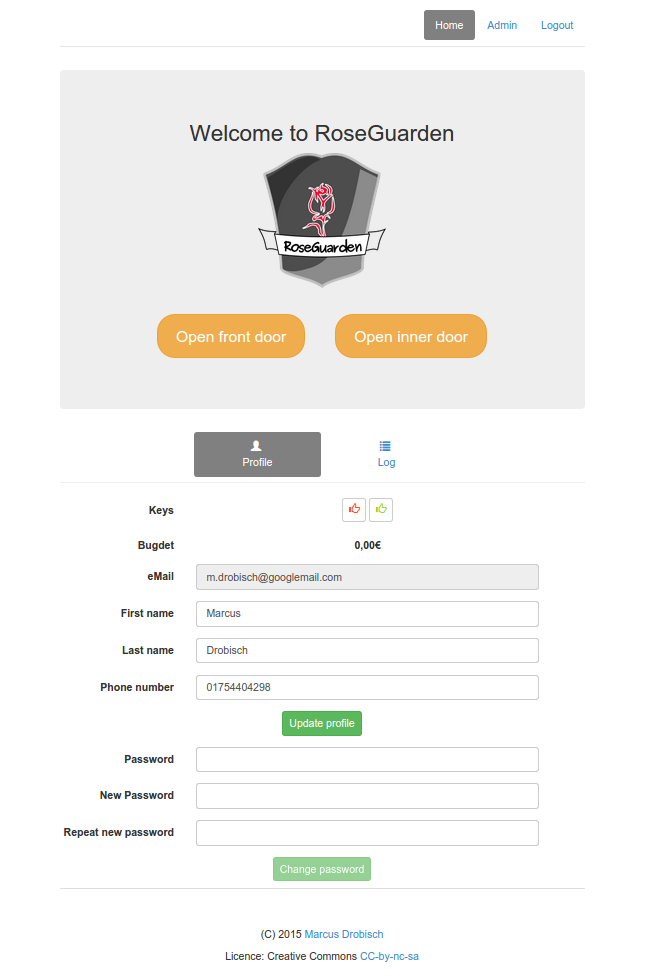
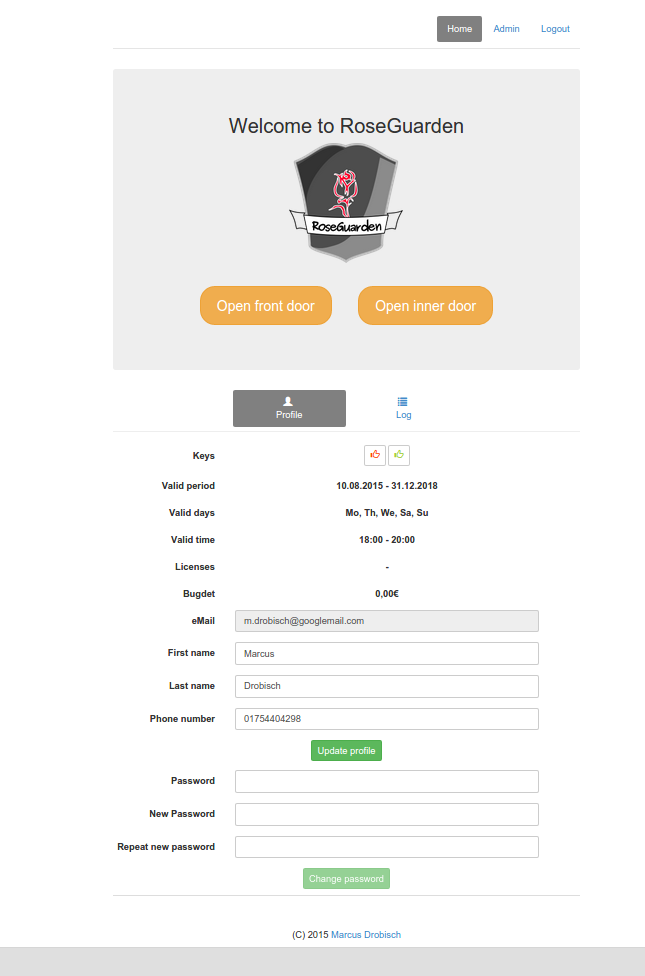
feat(userspace): add user-log and validation-dates

diff --git a/client/js/controllers/UserLogCtrl.js b/client/js/controllers/UserLogCtrl.js
@@ -1,0 +1,59 @@
+RoseGuardenApp.controller('UserLogCtrl', function ($scope, $location, $q, AuthService, User) {
+
+
+    var dates = [new Date("25 Dec, 1995 23:15:00"),new Date("1 Jan, 2005 13:15:00")];
+    var names = ['Front door', 'ProtosV2'];
+    var types = ['Opening door','Unlock device'];
+    var usernames = ['Marcus Drobisch', 'Max Mustermann'];
+    var usermails = ['m.drobisch@googlemail.com', 'Max.Mustermann@googlemail.com'];
+    var authentificationTypes = [0, 1,0, 0];
+
+    var id = 1;
+
+    $scope.rowCollection = [];
+    $scope.displayedCollection = [];
+
+    function generateRandomItem(id) {
+
+        var date = dates[Math.floor(Math.random() * 2)];
+        var name = names[Math.floor(Math.random() * 2)];
+        var type = types[Math.floor(Math.random() * 2)];
+        var username = usernames[Math.floor(Math.random() * 2)];
+        var usermail = usermails[Math.floor(Math.random() * 2)];
+        var authentificationType = authentificationTypes[Math.floor(Math.random() * 2)];
+        return {
+            id: id,
+            date: date,
+            name: name,
+            type: type,
+            authentificationType: authentificationType,
+            username: username,
+            usermail: usermail
+        };
+    }
+
+    function loadItemsDummy() {
+        for (id; id < 19; id++) {
+            $scope.rowCollection.push(generateRandomItem(id));
+        }
+        //copy the references (you could clone ie angular.copy but then have to go through a dirty checking for the matches)
+        $scope.displayedCollection = [].concat($scope.rowCollection);
+    }
+
+
+    loadItemsDummy();
+
+    //add to the real data holder
+    $scope.addRandomItem = function addRandomItem() {
+        $scope.rowCollection.push(generateRandomItem(id));
+        id++;
+    };
+
+    //remove to the real data holder
+    $scope.removeItem = function removeItem(row) {
+        var index = $scope.rowCollection.indexOf(row);
+        if (index !== -1) {
+            $scope.rowCollection.splice(index, 1);
+        }
+    }
+})

diff --git a/client/partials/user/log.html b/client/partials/user/log.html
@@ -1,1 +1,44 @@
-Log for user coming soon.
+<div ng-controller="UserLogCtrl">
+
+    <table st-table="displayedCollection" st-safe-src="rowCollection" class="table table-striped"">
+        <thead >
+            <tr>
+                <th st-sort="date">date</th>
+                <th st-sort="name">name</th>
+                <th st-sort="type">type</th>
+                <th st-sort="username">user</th>
+            </tr>
+            <tr>
+                <th colspan="4"><input st-search="" class="form-control" placeholder="global search ..." type="text"/></th>
+            </tr>
+        </thead>
+
+        <tbody>
+            <tr st-select-row="row" st-select-mode="single" ng-repeat="row in displayedCollection">
+                <td>{{row.date | date:'yyyy-MM-dd HH:mm'}}</td>
+                <td>{{row.name}}</td>
+                <td>
+                    {{row.type}}
+                    <i ng-show="row.authentificationType == 0" class="glyphicon glyphicon-phone" tooltip="web authentification"></i>
+                    <i ng-show="row.authentificationType == 1" class="glyphicon glyphicon-credit-card" tooltip="card authentification."></i>
+                </td>
+                <td>
+                    <span>{{row.username}}</span>
+                    <a href="mailto:{{row.usermail}}" class="btn btn-default gliphicons" >
+                        <i class="glyphicon glyphicon-envelope"></i>
+                    </a>
+                </td>
+
+            </tr>
+        </tbody>
+
+        <tfoot>
+            <tr>
+                <td colspan="4" class="text-center">
+                    <div st-pagination="" st-items-by-page="itemsByPage" st-displayed-pages="7"></div>
+                </td>
+            </tr>
+        </tfoot>
+    </table>
+
+</div>

diff --git a/client/partials/user/profile.html b/client/partials/user/profile.html
@@ -10,11 +10,6 @@
 
     <form name="form" ng-submit="updateProfile()" role="form" class="form-horizontal" >
 
-
-        <div class="form-group" ng-show="user.license">
-            <label class="col-xs-3 control-label">Licenses</label>
-        </div>
-
         <div class="form-group">
             <label class="col-xs-3 control-label center-block">Keys</label>
             <div class="col-xs-8">
@@ -44,6 +39,37 @@
                 </a>
             </div>
         </div>
+
+
+        <div class="form-group">
+            <label class="col-xs-3 control-label">Valid period</label>
+            <div class="col-xs-8">
+                <label class="control-label">10.08.2015 - 31.12.2018</label>
+            </div>
+        </div>
+
+
+        <div class="form-group">
+            <label class="col-xs-3 control-label">Valid days</label>
+            <div class="col-xs-8">
+                <label class="control-label">Mo, Th, We, Sa, Su</label>
+            </div>
+        </div>
+
+        <div class="form-group">
+            <label class="col-xs-3 control-label">Valid time</label>
+            <div class="col-xs-8">
+                <label class="control-label">18:00 - 20:00</label>
+            </div>
+        </div>
+
+        <div class="form-group">
+            <label class="col-xs-3 control-label">Licenses</label>
+            <div class="col-xs-8" ng-hide="user.license">
+                <label class="control-label">-</label>
+            </div>
+        </div>
+
 
         <div class="form-group">
             <label class="col-xs-3 control-label">Bugdet</label>

diff --git a/client/index.html b/client/index.html
@@ -85,6 +85,7 @@
     <script type="text/javascript" src="./js/controllers/RegisterCtrl.js"></script>
     <script type="text/javascript" src="./js/controllers/LostPasswordCtrl.js"></script>
     <script type="text/javascript" src="./js/controllers/UserProfileCtrl.js"></script>
+    <script type="text/javascript" src="./js/controllers/UserLogCtrl.js"></script>
     <script type="text/javascript" src="js/controllers/admin/AdminUsersCtrl.js"></script>
     <script type="text/javascript" src="js/controllers/admin/AdminDoorsCtrl.js"></script>
     <script type="text/javascript" src="js/controllers/admin/AdminLogCtrl.js"></script>

diff --git a/client/js/main.js b/client/js/main.js
@@ -37,7 +37,10 @@ RoseGuardenApp.run(function($location, Restangular, AuthService) {
 RoseGuardenApp.config(function($routeProvider, RestangularProvider) {
 
     //RestangularProvider.setBaseUrl('http://localhost:5000');
-    RestangularProvider.setBaseUrl('http://localhost:5000');
+
+    console.log(window.location.hostname);
+    RestangularProvider.setBaseUrl('http://' + window.location.hostname + ':5000');
+    //RestangularProvider.setBaseUrl('http://localhost:5000');
 
 
     var redirectIfAuthenticated = function(route) {

diff --git a/server/app/models.py b/server/app/models.py
@@ -15,8 +15,14 @@ class User(db.Model):
     phone = db.Column(db.Text)
     role = db.Column(db.Integer)
     cardID = db.Column(db.Text)
+    cardPassword = db.Column(db.Text)
     license = db.Column(db.Integer)
     key = db.Column(db.Integer)
+    validKeyTimeStart = db.Column(db.DateTime)
+    validKeyTimeEnd = db.Column(db.DateTime)
+    validKeyPeriodStart = db.Column(db.DateTime)
+    validKeyPeriodEnd = db.Column(db.DateTime)
+    validKeyDays = db.Column(db.Integer)
     def __repr__(self):
         return '<User %r>' % self.email
     def __init__(self, email, password, firstName, lastName, role = 0,phone = '0',license = 0, key = 0):

diff --git a/server/run.py b/server/run.py
@@ -11,7 +11,7 @@ backgroundWorker.run()
 
 # running the flask app
 #app.run('0.0.0.0')
-app.run()
+app.run('0.0.0.0')
 
 # after exiting the app, cancel the backgroundowrker
 backgroundWorker.cancel()
